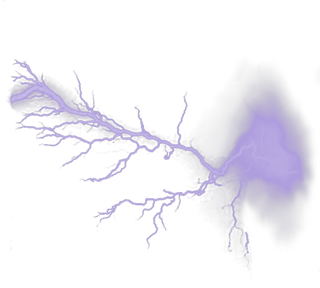
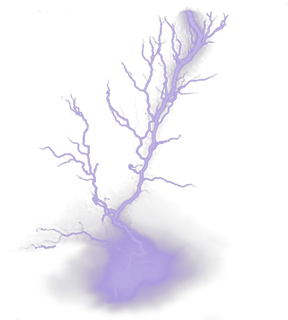
Change default range sprite direction from right to button.

diff --git a/CastleFight/Range.m b/CastleFight/Range.m
@@ -57,10 +57,11 @@
 -(void)setRangeSprite {
     
     CGColorSpaceRef imageColorSpace = CGColorSpaceCreateDeviceRGB();
-    CGContextRef context = CGBitmapContextCreate(NULL, width, height, 8, width * 4, imageColorSpace, kCGImageAlphaPremultipliedLast);
+    CGContextRef context = CGBitmapContextCreate(NULL, width*CC_CONTENT_SCALE_FACTOR(), height*CC_CONTENT_SCALE_FACTOR(), 8, width*CC_CONTENT_SCALE_FACTOR()*4, imageColorSpace, kCGImageAlphaPremultipliedLast);
     CGContextSetRGBFillColor(context, 1.0, 0.8, 0.8, 0.8);
-    
+    CGContextScaleCTM(context, CC_CONTENT_SCALE_FACTOR(), CC_CONTENT_SCALE_FACTOR());
     CGContextAddPath(context, attackRange);
+    
     CGContextFillPath(context);
     
     // Get CGImageRef
@@ -72,7 +73,7 @@
 -(void)setDirection:(CGPoint)velocity {
     float angleRadians = atan2f(velocity.y, velocity.x);
     float angleDegrees = CC_RADIANS_TO_DEGREES(angleRadians);
-    float cocosAngle = -1 * angleDegrees;
+    float cocosAngle = 270 - angleDegrees;
     
     _rangeSprite.rotation = cocosAngle;
 }
@@ -149,8 +150,8 @@
         loc = [render.sprite convertToWorldSpace:loc];
         loc = [_rangeSprite convertToNodeSpace:loc];
 
-        loc.x = (loc.x - _rangeSprite.boundingBox.size.width/2)* kScale + width/2;
-        loc.y = (loc.y - _rangeSprite.boundingBox.size.height/2)* kScale + height/2;
+//        loc.x = (loc.x - _rangeSprite.boundingBox.size.width/2)* CC_CONTENT_SCALE_FACTOR() + width/2;
+//        loc.y = (loc.y - _rangeSprite.boundingBox.size.height/2)* CC_CONTENT_SCALE_FACTOR() + height/2;
         
 //        CCLOG(@"%f,%f",loc.x,loc.y);
         

diff --git a/CastleFight/RangeSimpleXY.m b/CastleFight/RangeSimpleXY.m
@@ -17,6 +17,8 @@
 
 -(void)setSpecialParameter:(NSMutableDictionary*) dict {
     
+    // FIXME: key name
+    
     int radius;
     NSNumber *r = [dict valueForKey:kRangeKeyRadius];
     
@@ -26,15 +28,16 @@
     } else {
         radius = 50;
     }
-
-    // FIXME: attack range
     
-    radius *= kScale;
-    width = radius*2;
+    width = kMapPathHeight;
     height = radius*2;
+    
     attackRange = CGPathCreateMutable();
-    CGPathMoveToPoint(attackRange, NULL, width/2, height/2);
-    CGPathAddArc(attackRange, NULL, width/2, height/2, radius, 90/(-2), 90/2, NO);
+    CGPathMoveToPoint(attackRange, NULL, 0, 0);
+    CGPathAddLineToPoint(attackRange, NULL, 0, radius);
+    CGPathAddLineToPoint(attackRange, NULL, width, radius);
+    CGPathAddLineToPoint(attackRange, NULL, width, 0);
+    CGPathAddLineToPoint(attackRange, NULL, 0, 0);
     CGPathCloseSubpath(attackRange);
     
     yInterval = [[NSMutableArray alloc] init];
@@ -100,8 +103,8 @@
             return NO;
         }
     }
-    int attackDistance = width/2/kScale + renderCom.sprite.boundingBox.size.width/2 + selfRenderCom.sprite.boundingBox.size.width/2;
-//    int attackDistance = width/2/kScale;
+    int attackDistance = width + renderCom.sprite.boundingBox.size.width/2 + selfRenderCom.sprite.boundingBox.size.width/2;
+//    int attackDistance = width;
     
     if (directionCom.direction == kDirectionLeft) {
         if (c2.x <= c1.x && (c1.x-c2.x) <= attackDistance) {

diff --git a/CastleFight/RenderComponent.m b/CastleFight/RenderComponent.m
@@ -14,6 +14,7 @@
 
 -(id)initWithSprite:(CCSprite *)sprite {
     if ((self = [super init])) {
+        // node's position is the sprite center
         _node = [CCNode node];
         _sprite = sprite;
         
@@ -26,7 +27,24 @@
     return self;
 }
 
+-(void)setEnableShadowPosition:(BOOL)enableShadowPosition {
+    _enableShadowPosition = enableShadowPosition;
+    
+    // Provide shadow for map layer to use!
+    if (!_shadow) {
+        [self addShadow];
+        _shadow.visible = NO;
+    }
+}
+
 -(void)addShadow {
+    if (_shadow) {
+        if (_shadow.visible == NO) {
+            _shadow.visible = YES;
+        }
+        return;
+    }
+    
     CGRect sRect = CGRectMake(0, 0, (int)(_sprite.boundingBox.size.width * kShadowWidthScale * CC_CONTENT_SCALE_FACTOR()), (int)(_sprite.boundingBox.size.height *kShadowHeightScale * CC_CONTENT_SCALE_FACTOR()));
     
     size_t bitsPerComponent = 8;
@@ -46,15 +64,11 @@
     [_node addChild:_shadow z:-1];
 }
 
--(BOOL)hasShadow {
-    return _shadow != nil;
-}
-
 -(void)setPosition:(CGPoint)position {
     @synchronized(self) {
         _position = position;
         
-        if ([self hasShadow] && kShadowPositionEnable) {
+        if (self.enableShadowPosition) {
             _node.position = ccpSub(ccpSub(position, offset), shadowOffset);
         } else {
             _node.position = ccpSub(position, offset);

diff --git a/CastleFight/RangeFanShape.m b/CastleFight/RangeFanShape.m
@@ -11,11 +11,9 @@
 
 @implementation RangeFanShape
 
+//NSMutableDictionary *dictionary = [NSMutableDictionary dictionaryWithObjectsAndKeys:@[kRangeSideEnemy],kRangeKeySide,kRangeTypeFanShape,kRangeKeyType,@80,kRangeKeyRadius,@(M_PI/2),kRangeKeyAngle,@1,kRangeKeyTargetLimit,nil];
 
-// NSMutableDictionary *dict = [NSMutableDictionary dictionaryWithObjectsAndKeys:@1,@"effectSides",@0,@"effectSelfOrNot",@"RangeFanShape",@"rangeName",@200,@"effectRadius",@(M_PI/2),@"effectAngle",nil];    //FanShape
-//EffectSides:0=effectSideEnemy,1=effectSideAlly,2=effectSideBoth
-//effectRadius=攻擊半徑
-//effectAngle=攻擊角度
+//kRangeKeyAngle = 攻擊角度
 
 -(void)setSpecialParameter:(NSMutableDictionary*) dict {
     
@@ -29,7 +27,6 @@
         radius = 50;
     }
     
-    radius *= kScale;
     width = radius*2;
     height = radius*2;
     
@@ -46,8 +43,8 @@
     }
     
     attackRange = CGPathCreateMutable();
-    CGPathMoveToPoint(attackRange, NULL, width/2, height/2);
-    CGPathAddArc(attackRange, NULL, width/2, height/2, radius, angle/(-2), angle/2, NO);
+    CGPathMoveToPoint(attackRange, NULL, radius, radius);
+    CGPathAddArc(attackRange, NULL, radius, radius, radius, -M_PI/2 - angle/2, -M_PI/2 + angle/2, NO);
     CGPathCloseSubpath(attackRange);
 //    CGPathRetain(attackRange);
 }

diff --git a/CastleFight/RangeCircle.m b/CastleFight/RangeCircle.m
@@ -12,9 +12,7 @@
 @implementation RangeCircle
 
 
-//NSMutableDictionary *dict = [NSMutableDictionary dictionaryWithObjectsAndKeys:@0,@"rangeSides",@0,@"effectSelfOrNot",@"RangeCircle",@"rangeName",@50,"@radius" nil];//Circle
-//EffectSides:0=effectSideEnemy,1=effectSideAlly,2=effectSideBoth
-//effectRadius=攻擊半徑:50
+//NSMutableDictionary *dictionary = [NSMutableDictionary dictionaryWithObjectsAndKeys:@[kRangeSideEnemy],kRangeKeySide,kRangeTypeCircle,kRangeKeyType,@80,kRangeKeyRadius,@80,kRangeKeyDistance,@1,kRangeKeyTargetLimit,nil];
 
 -(void)setSpecialParameter:(NSMutableDictionary*)dict {
     
@@ -38,14 +36,12 @@
         distance = 0;
     }
     
-    radius *= kScale;
-    distance *= kScale;
-    width =  distance + radius*2;
-    height = radius*2;
+    width = radius*2;
+    height = (distance + radius)*2;
     
     attackRange = CGPathCreateMutable();
-    CGPathMoveToPoint(attackRange, NULL, distance + width/2, height/2);
-    CGPathAddArc(attackRange, NULL, distance + width/2, height/2, radius, 0, M_PI*2, NO);
+    CGPathMoveToPoint(attackRange, NULL, radius, radius);
+    CGPathAddArc(attackRange, NULL, radius, radius, radius, 0, M_PI*2, NO);
     CGPathCloseSubpath(attackRange);
 //    CGPathRetain(attackRange);
 }

diff --git a/CastleFight/LightningMagic.m b/CastleFight/LightningMagic.m
@@ -41,7 +41,7 @@
     AttackerComponent *attack = [[AttackerComponent alloc] initWithAttackAttribute:
                                  magicCom.damage];
     
-    ProjectileEvent *event = [[ProjectileEvent alloc] initWithProjectileRange:arrow type:kProjectileTypeLine startWorldPosition:startPoint endWorldPosition:ccp(startPoint.x, startPoint.y+0.1f) time:0.0f block:^(NSArray *entities, CGPoint position) {
+    ProjectileEvent *event = [[ProjectileEvent alloc] initWithProjectileRange:arrow type:kProjectileTypeLine startWorldPosition:startPoint endWorldPosition:ccp(startPoint.x, startPoint.y-0.1f) time:0.0f block:^(NSArray *entities, CGPoint position) {
         NSLog(@"startPoint:%@, event.position:%@",NSStringFromCGPoint(startPoint),NSStringFromCGPoint(position));
         for (Entity *entity in entities) {
             AttackEvent *event = [[AttackEvent alloc] initWithAttacker:self.owner attackerComponent:attack damageType:kDamageTypeNormal damageSource:kDamageSourceRanged defender:entity];

diff --git a/CastleFight/TiledMapCamera.m b/CastleFight/TiledMapCamera.m
@@ -14,16 +14,6 @@ const static int kMoveSlowRatio = 30;
 
 @implementation TiledMapCamera
 
-static float scale;
-
-+(void)initialize {
-    if ([[UIScreen mainScreen] respondsToSelector:@selector(scale)]) {
-        scale = [[UIScreen mainScreen] scale];
-    } else {
-        scale = 1.0;
-    }
-}
-
 -(id)initWithTiledMap:(CCTMXTiledMap *)aMap {
     if (self = [super init]) {
         map = aMap;
@@ -32,8 +22,8 @@ static float scale;
         
         center = ccp(winSize.width / 2, winSize.height / 2);
         
-        widthMax = map.mapSize.width * map.tileSize.width / scale - winSize.width;
-        heightMax = map.mapSize.height * map.tileSize.height / scale - winSize.height;
+        widthMax = map.mapSize.width * map.tileSize.width / CC_CONTENT_SCALE_FACTOR() - winSize.width;
+        heightMax = map.mapSize.height * map.tileSize.height / CC_CONTENT_SCALE_FACTOR() - winSize.height;
         
         move = NO;
     }

diff --git a/CastleFight/RangeLine.m b/CastleFight/RangeLine.m
@@ -38,15 +38,13 @@
         lineWidth = 20;
     }
     
-    length *= kScale;
-    lineWidth *= kScale;
-    width = length;
-    height = lineWidth;
+    width = lineWidth;
+    height = length*2;
     
     attackRange = CGPathCreateMutable();
     CGPathMoveToPoint(attackRange, NULL, 0, 0);
-    CGPathAddLineToPoint(attackRange, NULL, 0, lineWidth);
-    CGPathAddLineToPoint(attackRange, NULL, width, lineWidth);
+    CGPathAddLineToPoint(attackRange, NULL, 0, length);
+    CGPathAddLineToPoint(attackRange, NULL, width, length);
     CGPathAddLineToPoint(attackRange, NULL, width, 0);
     CGPathAddLineToPoint(attackRange, NULL, 0, 0);
     

diff --git a/CastleFight/EntityFactory.m b/CastleFight/EntityFactory.m
@@ -89,6 +89,7 @@
     
     RenderComponent *render = [[RenderComponent alloc] initWithSprite:sprite];
     [render addShadow];
+    render.enableShadowPosition = YES;
     [entity addComponent:render];
     
     [entity addComponent:[[AnimationComponent alloc] initWithAnimations:[self animationsByCharacterName:name]]];
@@ -196,6 +197,7 @@
     
     RenderComponent *render = [[RenderComponent alloc] initWithSprite:sprite];
     [render addShadow];
+    render.enableShadowPosition = YES;
     [entity addComponent:render];
     
     [entity addComponent:[[AnimationComponent alloc] initWithAnimations:nil]];

diff --git a/CastleFight/TiledMapLayer.m b/CastleFight/TiledMapLayer.m
@@ -26,8 +26,8 @@
             [[child texture] setAntiAliasTexParameters];
         }
         
-        boundaryX = map.mapSize.width * map.tileSize.width / kScale;
-        boundaryY = map.mapSize.height * map.tileSize.height / kScale;
+        boundaryX = map.mapSize.width * map.tileSize.width / CC_CONTENT_SCALE_FACTOR();
+        boundaryY = map.mapSize.height * map.tileSize.height / CC_CONTENT_SCALE_FACTOR();
         
         zOrder = boundaryY;
         

diff --git a/CastleFight/MapLayer.m b/CastleFight/MapLayer.m
@@ -134,7 +134,8 @@ const static int pathSizeHeight = 40;
     float Width = 0;
     float Height = 0;
     
-    if ([render hasShadow] && kShadowPositionEnable) {
+    if (render.enableShadowPosition) {
+        NSAssert(render.shadow, @"Need shadow sprite to calculate the right boundary!");
         Width = render.shadow.boundingBox.size.width/2;
         Height = render.shadow.boundingBox.size.height/2;
     } else {

diff --git a/CastleFight/RenderComponent.h b/CastleFight/RenderComponent.h
@@ -20,12 +20,13 @@
 
 // Used for animation
 @property CCSprite *sprite;
-@property CCSprite *shadow;
+
+@property (nonatomic) BOOL enableShadowPosition;
+@property (readonly) CCSprite *shadow;
 
 -(id)initWithSprite:(CCSprite *)sprite;
 
 -(void)addFlashString:(NSString *)string color:(ccColor3B)color;
 -(void)addShadow;
--(BOOL)hasShadow;
 
 @end
